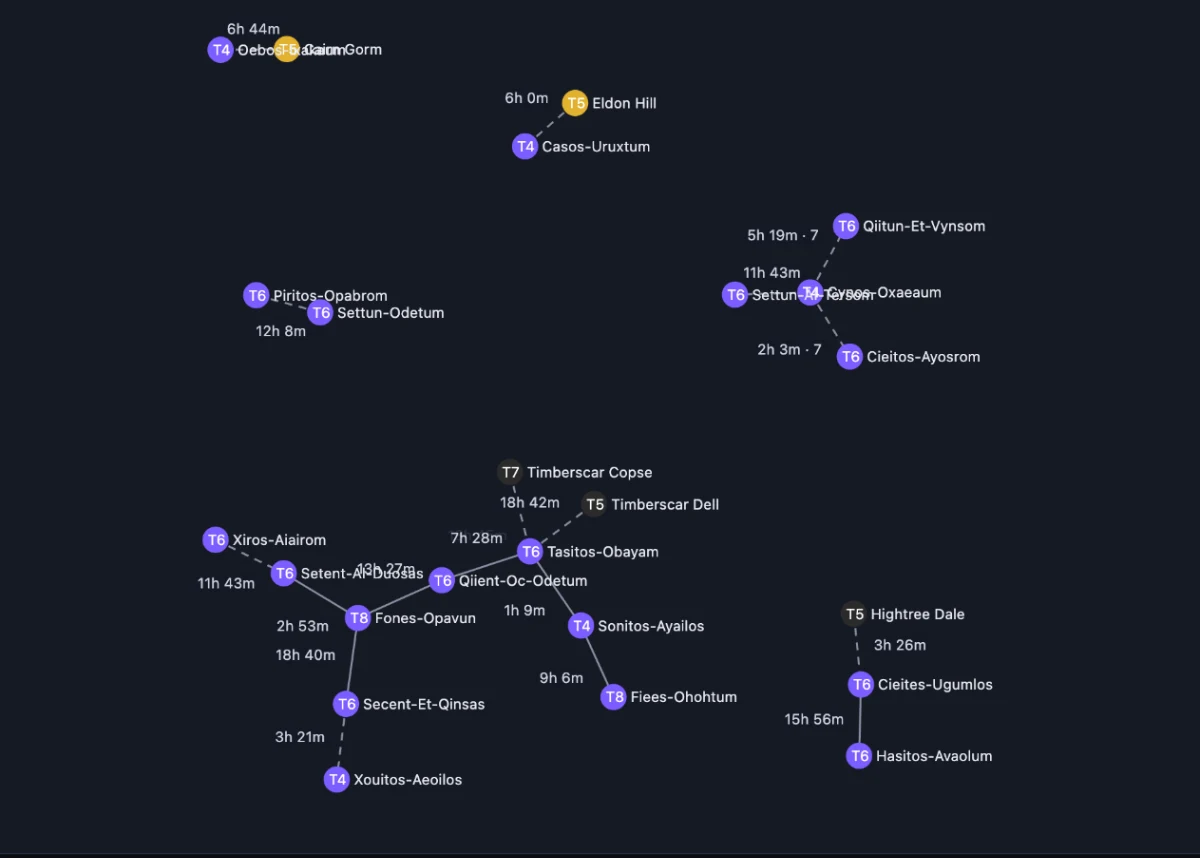
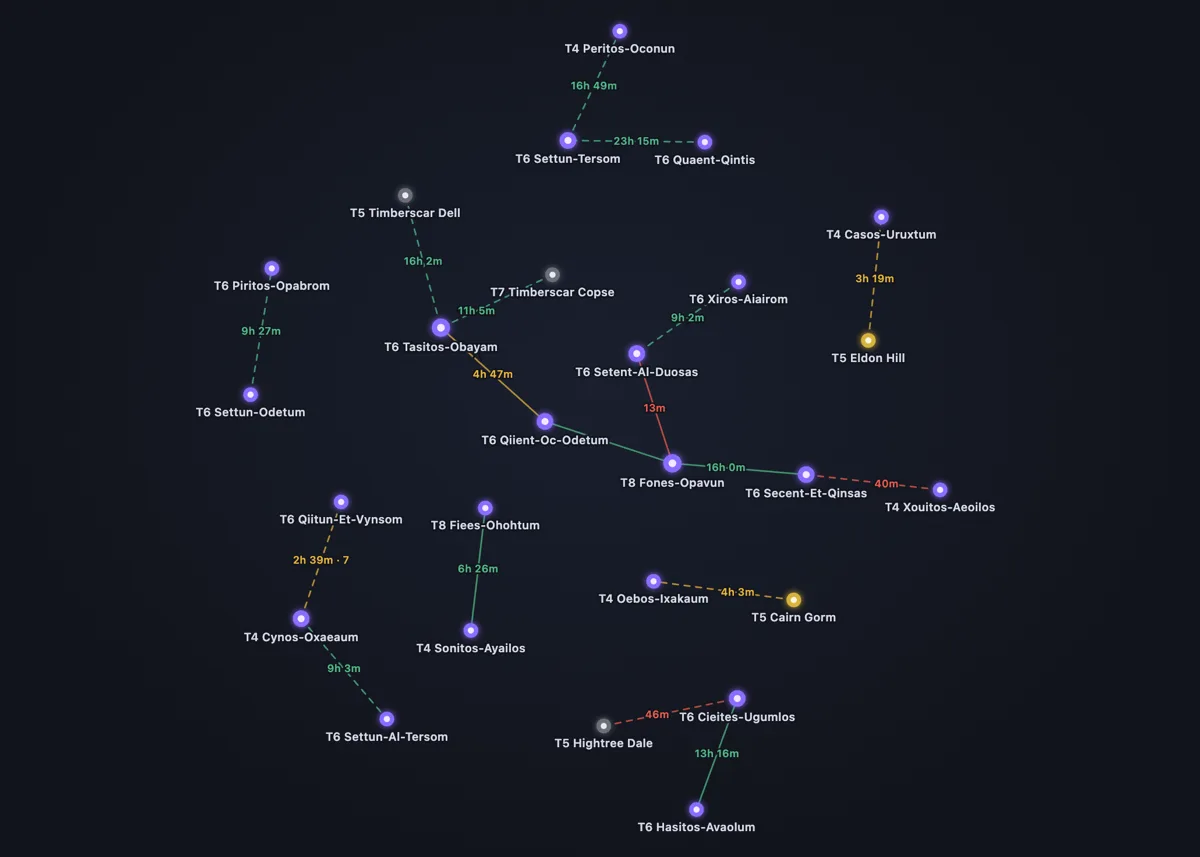
Страница app/: снимок новой карты Авалона (живой граф)

diff --git a/app/index.html b/app/index.html
@@ -117,7 +117,7 @@ footer a{color:var(--muted)}
   </section>
 
   <section class="feat">
-    <div class="pic"><img src="img/map.webp" width="1200" height="858" loading="lazy" data-ta="a3"
+    <div class="pic"><img src="img/map.webp?v=2" width="1200" height="857" loading="lazy" data-ta="a3"
       alt="Общая карта дорог Авалона на сайте: зоны, связи между ними и сколько каждой осталось"></div>
     <div class="txt">
       <h2 data-t="h3">Общая карта дорог Авалона</h2>
